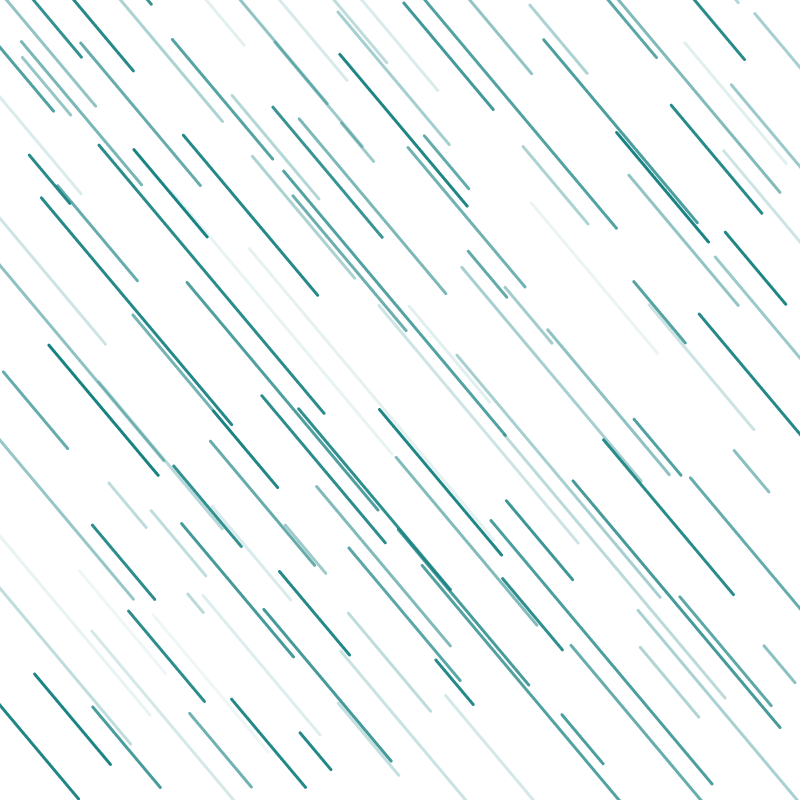
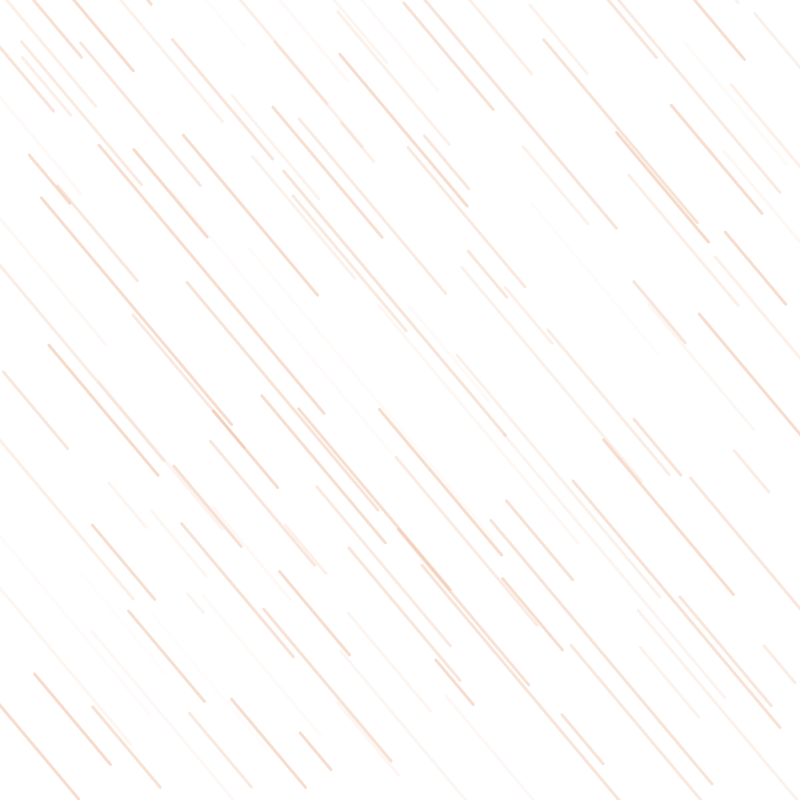
Page 'About' finished

diff --git a/src/data/data.js b/src/data/data.js
@@ -1,3 +1,5 @@
+import imgCover from '../assets/cover.png'
+
 const heroData = {
     heroMainData: {
         greeting: 'Hello, my name is',
@@ -15,7 +17,7 @@ const heroData = {
         and regularly upgrade my React skills. Seeking to join a React development
         team to collaborate with talented professionals and continue to grow my skills
         and experience.`,
-        skills: ['HTML', 'CSS', 'Javascript', 'SCSS', 'Bootstrap', 'React', 'TailwindCSS', 'NodeJS', 'GIT', 'Firebase', 'Wordpress', 'Styled-Components'],
+        skills: ['HTML', 'CSS', 'Javascript', 'SCSS', 'Bootstrap', 'React', 'Vite', 'TailwindCSS', 'NodeJS', 'GIT', 'Firebase', 'Wordpress', 'Styled-Components'],
         jobs: [{
             timePeriod: 'March 2022 - January 2023',
             position: 'Front-End Developer',
@@ -66,7 +68,52 @@ const heroData = {
         linkedin: 'https://ua.linkedin.com/',
         telegram: 'https://t.me/V_R0m',
         email: 'sevczik11@gmail.com'
-    }
+    },
+
+    projectsData: [{
+        projectName: 'Personal-Portfolio-v1',
+        projectImg: `${imgCover}`,
+        projectDescription: 'My personal portfolio site. I designed this portfolio myself in a minimal style and focused on creating it using React.',
+        repoLink: 'https://github.com/shaggy611/portfolio-v1',
+        demoLink: 'https://romaniuk-dev.com/',
+        usedTechnologies: ['React', 'Styled-Components', 'Framer-Motion']
+
+    }, {
+        projectName: 'Webinar Platform',
+        projectImg: `${imgCover}`,
+        projectDescription: 'It is a platform for conducting webinars and meetings, which allows you to share your screen, for example, to demonstrate presentations. Also, the platform has the ability to leave comments to participants while watching online webigars.',
+        repoLink: '',
+        demoLink: 'https://webinario.romaniuk-dev.com/',
+        usedTechnologies: ['React', 'TailwindCSS', 'NodeJS', 'Express', 'Firebase', 'WebsocketsIO']
+    }, {
+        projectName: 'GoogleKeep Lite Clone',
+        projectImg: `${imgCover}`,
+        projectDescription: 'Google Keep clone is developed on pure javascript with the use of firebase features such as database and authentication. The web application has the possibility of creating a personal account and keeping notes, which allows you to use the application simultaneously both on a computer and on a smartphone.',
+        repoLink: 'https://github.com/shaggy611/to_do_vanila_js/tree/app_with_auth',
+        demoLink: '',
+        usedTechnologies: ['HTML', 'Vanilla JavaScript', 'Bootstrap', 'Firebase', 'Webpack']
+    }, {
+        projectName: 'Scanner.app Landing page',
+        projectImg: `${imgCover}`,
+        projectDescription: 'Product landing page developed for Scanner.app',
+        repoLink: 'https://github.com/shaggy611/scanner.app',
+        demoLink: '',
+        usedTechnologies: ['HTML', 'CSS', 'Bootstrap', 'Javascript']
+    }, {
+        projectName: 'Plantyx.app Landing page',
+        projectImg: `${imgCover}`,
+        projectDescription: 'Product landing page developed for Plantyx.app',
+        repoLink: 'https://github.com/shaggy611/plantyx',
+        demoLink: 'https://plantyx.app/',
+        usedTechnologies: ['HTML', 'CSS', 'Bootstrap', 'Javascript']
+    }, {
+        projectName: 'Kodi.guru',
+        projectImg: `${imgCover}`,
+        projectDescription: 'Product web site developed for Kodi.guru App',
+        repoLink: 'https://github.com/shaggy611/kodi.guru',
+        demoLink: 'https://kodi.guru/',
+        usedTechnologies: ['HTML', 'CSS', 'Bootstrap', 'Javascript']
+    }]
 }
 
 export default heroData

diff --git a/src/components/sections/Projects.jsx b/src/components/sections/Projects.jsx
@@ -1,16 +1,79 @@
+import { useContext } from 'react'
+import PortfolioContext from '../../context/PortfolioContext'
+import { Container, mixins } from './../../styles/styles'
+import { FaAngleLeft, FaAngleRight } from 'react-icons/fa'
 import styled from 'styled-components'
+import { AiFillGithub } from 'react-icons/ai'
+import { RxExternalLink } from 'react-icons/rx'
 
 function Projects() {
+  const { projectsData } = useContext(PortfolioContext)
   return (
     <StyledProjects id='projects'>
-      <h2>Projects</h2>
+      <StyledContainer>
+        <h2>
+          <FaAngleLeft />
+          Projects
+          <FaAngleRight />
+        </h2>
+
+        <ProjectsWrapper>
+          {projectsData.map((project) => {
+            return (
+              <Project key={project.projectName}>
+                <img src={project.projectImg} alt='Project Cover' />
+                <div>
+                  <span className='project-name'>{project.projectName}</span>
+                  <span className='project-description'>
+                    {project.projectDescription}
+                  </span>
+                  <div className='psoject-technologies'>
+                    {project.usedTechnologies.map((item) => (
+                      <div key={`${project.projectName}${item}`}>{item}</div>
+                    ))}
+                  </div>
+                  <div className='projects-links'>
+                    <a href={project.repoLink}>
+                      <AiFillGithub />
+                    </a>
+                    <a href={project.demoLink}>
+                      <RxExternalLink />
+                    </a>
+                  </div>
+                </div>
+              </Project>
+            )
+          })}
+        </ProjectsWrapper>
+      </StyledContainer>
     </StyledProjects>
   )
 }
 
 export default Projects
 
-const StyledProjects = styled.section`
-  height: 100vh;
-  background-color: var(--cream-color);
+const StyledContainer = styled(Container)`
+  ${mixins.flexCentered}
+  max-width: 80%;
+  padding-bottom: 6rem;
 `
+
+const StyledProjects = styled.section`
+  h2 {
+    font-size: 2.2rem;
+    font-family: var(--font-family-second);
+    color: var(--ocean-wave-color);
+    font-weight: 600;
+
+    svg {
+      font-size: 2rem;
+    }
+  }
+`
+
+const ProjectsWrapper = styled.div`
+  display: flex;
+  flex
+`
+
+const Project = styled.div``

diff --git a/src/components/sections/Main.jsx b/src/components/sections/Main.jsx
@@ -48,30 +48,30 @@ const StyledContainer = styled(Container)`
 
 const StyledWrapper = styled.section`
   h1 {
-    font-size: 1.5rem;
-    color: var(--fire-orange-color);
-    font-weight: 500;
+    font-size: 1rem;
+    /* color: var(--fire-orange-color); */
+    /* font-weight: 500; */
   }
 
   h1 span {
-    font-size: 3rem;
+    /* font-size: 2rem; */
     font-family: var(--font-family-second);
-    color: var(--ocean-wave-color);
-    font-weight: 600;
+    color: var(--fire-orange-color);
+    /* font-weight: 600; */
   }
 
   p {
     margin-top: 1rem;
-    font-size: 1.6rem;
-    color: var(--fire-orange-color);
-    font-weight: 600;
+    /* font-size: 1.2rem; */
+    /* color: var(--fire-orange-color); */
+    /* font-weight: 600; */
   }
 
   p span {
-    font-size: 2.5rem;
+    /* font-size: 1.8rem; */
     font-family: var(--font-family-second);
-    color: var(--ocean-wave-color);
-    font-weight: 600;
+    color: var(--fire-orange-color);
+    /* font-weight: 600; */
   }
 
   img {

diff --git a/src/styles/globalStyles.jsx b/src/styles/globalStyles.jsx
@@ -20,7 +20,6 @@ body {
   font-family: var(--font-family);
   color: var(--bottle-color);
   cursor: var(--cursor-pointer-ico);
-  background-image: url('https://github.com/shaggy611/portfolio-v1/blob/master/src/assets/rain.png');
 }
 
 a {

diff --git a/src/components/Logo.jsx b/src/components/Logo.jsx
@@ -1,5 +1,5 @@
 import styled from 'styled-components'
-import logo from '../assets/menu_logo.png'
+import logo from '../assets/logo-outline.png'
 import { motion } from 'framer-motion'
 import { Link } from 'react-router-dom'
 

diff --git a/src/components/Jobs.jsx b/src/components/Jobs.jsx
@@ -35,7 +35,7 @@ Jobs.propTypes = {
 export default Jobs
 
 const StyledJobsWrapper = styled.div`
-  margin-top: 1.5rem;
+  margin-top: 3rem;
 
   & .time-period {
     font-size: 0.8rem;

diff --git a/src/components/SkillsList.jsx b/src/components/SkillsList.jsx
@@ -20,7 +20,7 @@ SkillsList.propTypes = {
 export default SkillsList
 
 const StyledSkillsList = styled.div`
-  margin-top: 1.3rem;
+  margin-top: 3rem;
   max-width: 85%;
 
   ul {
